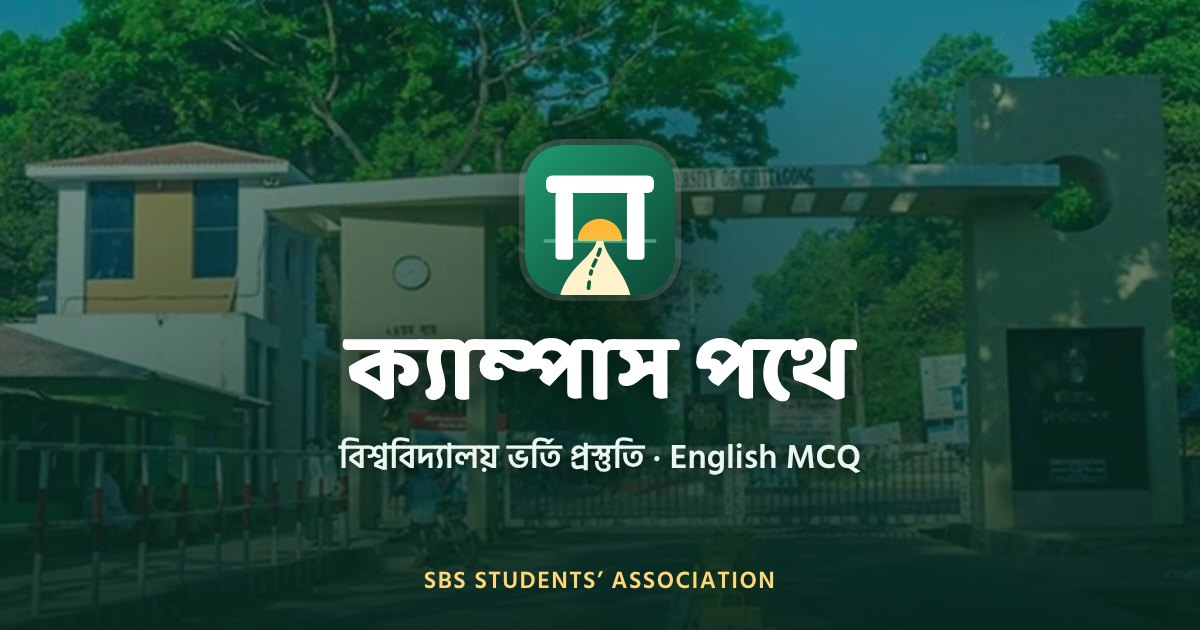
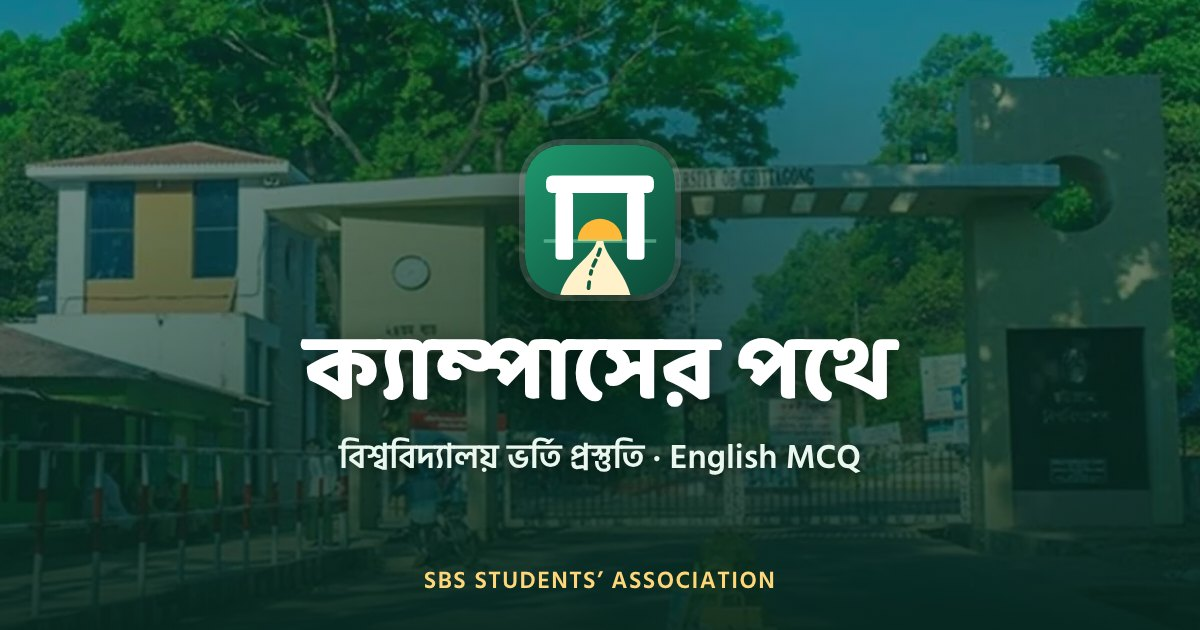
Rename the site to ক্যাম্পাসের পথে
Name updated in the page, link preview, manifest, share text and docs;
og-cover.jpg (cache-busted ?v=2) and the logo PNGs redrawn with the new
name.

Claude-Session: https://claude.ai/code/session_015kZjurAs8eJsceEquDovBL

Changed region(s): [[0.2467, 0.5127, 0.7708, 0.6635]]

diff --git a/index.html b/index.html
@@ -4,25 +4,25 @@
   <meta charset="utf-8">
   <meta name="viewport" content="width=device-width,initial-scale=1,viewport-fit=cover">
   <meta name="theme-color" content="#0f5c45">
-  <title>ক্যাম্পাস পথে — বিশ্ববিদ্যালয় ভর্তি প্রস্তুতি · English MCQ ও Model Test</title>
+  <title>ক্যাম্পাসের পথে — বিশ্ববিদ্যালয় ভর্তি প্রস্তুতি · English MCQ ও Model Test</title>
   <meta name="description" content="চবি, ঢাবি, কুবি-সহ বিশ্ববিদ্যালয় ভর্তি পরীক্ষার English প্রস্তুতি: ২০০০+ MCQ, টাইমড Model Test, প্রতিটি উত্তরের বাংলা ব্যাখ্যা, Vocabulary ও Tips — ঘরে বসে অনলাইনে, বিনামূল্যে।">
   <link rel="canonical" href="https://sbs-university-admission-model-test.vercel.app/">
   <meta property="og:type" content="website">
-  <meta property="og:site_name" content="ক্যাম্পাস পথে">
-  <meta property="og:title" content="ক্যাম্পাস পথে — বিশ্ববিদ্যালয় ভর্তি প্রস্তুতি">
+  <meta property="og:site_name" content="ক্যাম্পাসের পথে">
+  <meta property="og:title" content="ক্যাম্পাসের পথে — বিশ্ববিদ্যালয় ভর্তি প্রস্তুতি">
   <meta property="og:description" content="ঘরে বসে অনলাইনে বিশ্ববিদ্যালয় ভর্তি পরীক্ষার English MCQ অনুশীলন — টাইমড Model Test, প্রতিটি উত্তরের বাংলা ব্যাখ্যা ও মেধাতালিকা।">
   <meta property="og:url" content="https://sbs-university-admission-model-test.vercel.app/">
   <meta property="og:locale" content="bn_BD">
-  <meta property="og:image" content="https://sbs-university-admission-model-test.vercel.app/assets/img/og-cover.jpg">
+  <meta property="og:image" content="https://sbs-university-admission-model-test.vercel.app/assets/img/og-cover.jpg?v=2">
   <meta property="og:image:type" content="image/jpeg">
   <meta property="og:image:width" content="1200">
   <meta property="og:image:height" content="630">
-  <meta property="og:image:alt" content="ক্যাম্পাস পথে — চট্টগ্রাম বিশ্ববিদ্যালয়ের প্রধান ফটক ও লোগো">
+  <meta property="og:image:alt" content="ক্যাম্পাসের পথে — চট্টগ্রাম বিশ্ববিদ্যালয়ের প্রধান ফটক ও লোগো">
   <meta name="twitter:card" content="summary_large_image">
-  <meta name="twitter:title" content="ক্যাম্পাস পথে — বিশ্ববিদ্যালয় ভর্তি প্রস্তুতি">
+  <meta name="twitter:title" content="ক্যাম্পাসের পথে — বিশ্ববিদ্যালয় ভর্তি প্রস্তুতি">
   <meta name="twitter:description" content="ঘরে বসে অনলাইনে বিশ্ববিদ্যালয় ভর্তি পরীক্ষার English MCQ অনুশীলন — টাইমড Model Test, প্রতিটি উত্তরের বাংলা ব্যাখ্যা ও মেধাতালিকা।">
-  <meta name="twitter:image" content="https://sbs-university-admission-model-test.vercel.app/assets/img/og-cover.jpg">
-  <meta name="twitter:image:alt" content="ক্যাম্পাস পথে — চট্টগ্রাম বিশ্ববিদ্যালয়ের প্রধান ফটক ও লোগো">
+  <meta name="twitter:image" content="https://sbs-university-admission-model-test.vercel.app/assets/img/og-cover.jpg?v=2">
+  <meta name="twitter:image:alt" content="ক্যাম্পাসের পথে — চট্টগ্রাম বিশ্ববিদ্যালয়ের প্রধান ফটক ও লোগো">
   <link rel="icon" href="assets/img/favicon.svg" type="image/svg+xml">
   <link rel="icon" href="assets/img/icon-192.png" type="image/png" sizes="192x192">
   <link rel="apple-touch-icon" href="assets/img/apple-touch-icon.png">
@@ -89,16 +89,16 @@
     if (/\.vercel\.app$/.test(location.hostname)) document.head.append(Object.assign(document.createElement('script'), { defer: true, src: '/_vercel/insights/script.js' }));
   </script>
   <script type="application/ld+json">
-  {"@context":"https://schema.org","@type":"WebSite","name":"ক্যাম্পাস পথে","alternateName":"Campus Pothe","url":"https://sbs-university-admission-model-test.vercel.app/","inLanguage":"bn","description":"চবি, ঢাবি, কুবি-সহ বিশ্ববিদ্যালয় ভর্তি পরীক্ষার English প্রস্তুতি: ২০০০+ MCQ, টাইমড Model Test, প্রতিটি উত্তরের বাংলা ব্যাখ্যা, Vocabulary ও Tips — ঘরে বসে অনলাইনে, বিনামূল্যে।","publisher":{"@type":"Organization","name":"SBS Students’ Association"}}
+  {"@context":"https://schema.org","@type":"WebSite","name":"ক্যাম্পাসের পথে","url":"https://sbs-university-admission-model-test.vercel.app/","inLanguage":"bn","description":"চবি, ঢাবি, কুবি-সহ বিশ্ববিদ্যালয় ভর্তি পরীক্ষার English প্রস্তুতি: ২০০০+ MCQ, টাইমড Model Test, প্রতিটি উত্তরের বাংলা ব্যাখ্যা, Vocabulary ও Tips — ঘরে বসে অনলাইনে, বিনামূল্যে।","publisher":{"@type":"Organization","name":"SBS Students’ Association"}}
   </script>
 </head>
 <body>
   <a class="skip-link" href="#main">মূল অংশে যাও</a>
   <header class="site-header">
     <div class="container header-inner">
-      <a class="brand" href="#home" aria-label="ক্যাম্পাস পথে — হোম">
+      <a class="brand" href="#home" aria-label="ক্যাম্পাসের পথে — হোম">
         <img class="brand-mark" src="assets/img/logo.svg" width="40" height="40" alt="">
-        <span class="brand-text">ক্যাম্পাস পথে<small>ADMISSION PRACTICE</small></span>
+        <span class="brand-text">ক্যাম্পাসের পথে<small>ADMISSION PRACTICE</small></span>
       </a>
       <nav class="top-nav" aria-label="প্রধান মেনু">
         <a href="#home" data-nav="home">হোম</a>
@@ -119,7 +119,7 @@
 
   <main id="main" tabindex="-1">
     <section class="container section">
-      <h1>ক্যাম্পাস পথে — বিশ্ববিদ্যালয় ভর্তি প্রস্তুতি</h1>
+      <h1>ক্যাম্পাসের পথে — বিশ্ববিদ্যালয় ভর্তি প্রস্তুতি</h1>
       <p>English MCQ Fun Quiz, Model Test, Tips & Tricks ও বিশ্ববিদ্যালয়ের official links। লোড হচ্ছে…</p>
       <noscript>
         <p class="notice">Quiz চালাতে JavaScript চালু করুন। Official links:
@@ -133,7 +133,7 @@
   <footer class="site-footer">
     <div class="container footer-inner">
       <div class="footer-about">
-        <p class="footer-brand">ক্যাম্পাস পথে</p>
+        <p class="footer-brand">ক্যাম্পাসের পথে</p>
         <p class="footer-tagline">একটু একটু করে, স্বপ্নের ক্যাম্পাসের দিকে।</p>
         <div class="dev-card">
           <img src="assets/img/developer-96.webp" width="52" height="52" alt="Misbahul Tuhin" loading="lazy" decoding="async">

diff --git a/assets/js/pages/result.js b/assets/js/pages/result.js
@@ -138,7 +138,7 @@ export function onAction(action, el) {
   } else if (action === 'retry-save' && h) {
     sendScore(h.id);
   } else if (action === 'share' && h) {
-    const text = `আমি "ক্যাম্পাস পথে"-তে ${h.title} ${MODE_INFO[h.mode]?.label || ''}-এ ${h.correct}/${h.total} সঠিক করেছি${h.mode === 'fun' ? ` (${h.score} points)` : ''}! তুমি পারবে? 🎯`;
+    const text = `আমি "ক্যাম্পাসের পথে"-তে ${h.title} ${MODE_INFO[h.mode]?.label || ''}-এ ${h.correct}/${h.total} সঠিক করেছি${h.mode === 'fun' ? ` (${h.score} points)` : ''}! তুমি পারবে? 🎯`;
     const url = location.origin + location.pathname;
     if (navigator.share) navigator.share({ text, url }).catch(() => {});
     else navigator.clipboard?.writeText(`${text} ${url}`).then(() => toast('📋 Copy হয়েছে—যেকোনো জায়গায় paste করো'), () => toast(text));

diff --git a/tense-express/index.html b/tense-express/index.html
@@ -3,7 +3,7 @@
 <head>
   <meta charset="utf-8">
   <meta name="viewport" content="width=device-width,initial-scale=1">
-  <title>Tense Express → Fun Quiz · ক্যাম্পাস পথে</title>
+  <title>Tense Express → Fun Quiz · ক্যাম্পাসের পথে</title>
   <meta http-equiv="refresh" content="0; url=/#start/fun/tense">
   <link rel="canonical" href="/#start/fun/tense">
   <script>location.replace('/#start/fun/tense');</script>

diff --git a/assets/js/pages/progress.js b/assets/js/pages/progress.js
@@ -93,6 +93,6 @@ export async function onChange(el) {
     document.getElementById('main').innerHTML = render();
     toast('✅ Backup import হয়েছে');
   } catch {
-    toast('⚠ এটি সঠিক “ক্যাম্পাস পথে” backup file নয়।');
+    toast('⚠ এটি সঠিক “ক্যাম্পাসের পথে” backup file নয়।');
   }
 }

diff --git a/data/site.js b/data/site.js
@@ -1,7 +1,7 @@
 // SITE SETTINGS — names, credits and photos used across the site.
 
 export const SITE = {
-  name: 'ক্যাম্পাস পথে',
+  name: 'ক্যাম্পাসের পথে',
   nameEn: 'Campus Pothe',
   tagline: 'একটু একটু করে, স্বপ্নের ক্যাম্পাসের দিকে।',
   initiative: 'SBS Students’ Association',

diff --git a/assets/css/styles.css b/assets/css/styles.css
@@ -1,4 +1,4 @@
-/* ক্যাম্পাস পথে — design system
+/* ক্যাম্পাসের পথে — design system
    Mobile-first. Breakpoints: 700px (tablet), 960px (desktop).
    Colours are tokens; dark mode only swaps tokens. */
 

diff --git a/ASSET_MANIFEST.md b/ASSET_MANIFEST.md
@@ -5,7 +5,7 @@
 | `assets/img/cu-gate-{480,768,1113}.webp` | Main gate of the University of Chittagong — header (hero) photo on the home and CU pages. Original 109 KB WebP re-encoded at three widths (27 / 47 / 72 KB); browsers download only the size they need. A 24 px blurred preview is inlined in `data/site.js` for an instant first paint. | Supplied by the site owner (credited as "ছবি: সংগৃহীত"). Confirm you have permission to use it, and add the photographer's name to `CU_HERO.credit` in `data/site.js` if known. |
 | `assets/img/cu-cover.webp` | Aerial view of the hilly CU campus (480×270) | Extracted from the previous version of this site, where it was embedded as base64 and labelled "reference থেকে পুনর্নির্মিত" (re-created from a reference). Used as the always-available fallback. |
 | `assets/img/cu-buildings.webp` | Campus buildings among hills (480×270) | Same as above; shown as "Illustrative image". |
-| `assets/img/logo.svg`, `favicon.svg`, `icon-192.png`, `icon-512.png`, `apple-touch-icon.png` | ক্যাম্পাস পথে logo mark (CU gate, road, rising sun): header, favicon, home-screen icons | Original project asset, drawn for this site. |
+| `assets/img/logo.svg`, `favicon.svg`, `icon-192.png`, `icon-512.png`, `apple-touch-icon.png` | ক্যাম্পাসের পথে logo mark (CU gate, road, rising sun): header, favicon, home-screen icons | Original project asset, drawn for this site. |
 | `assets/img/campus-pothe-logo-{light,dark}.png` | Full logo (mark + name + tagline), 1200×420, for social media and print | Original project asset. |
 | `assets/img/og-cover.jpg` | Link-preview image (1200×630, `og:image`): CU main gate photo with a green overlay, the logo mark, site name and SBS line in the centre so a square crop (Messenger) still shows them | Made from `cu-gate-1113.webp` + `logo.svg`. |
 | `assets/img/developer-96.webp` | Developer photo in the footer | Supplied by the site owner. |

diff --git a/README.md b/README.md
@@ -1,4 +1,4 @@
-# ক্যাম্পাস পথে — University Admission Practice
+# ক্যাম্পাসের পথে — University Admission Practice
 
 A Bangla-first university admission companion, built around the University of
 Chittagong: English MCQ practice (Grammar + Memorising: vocabulary, BCS
